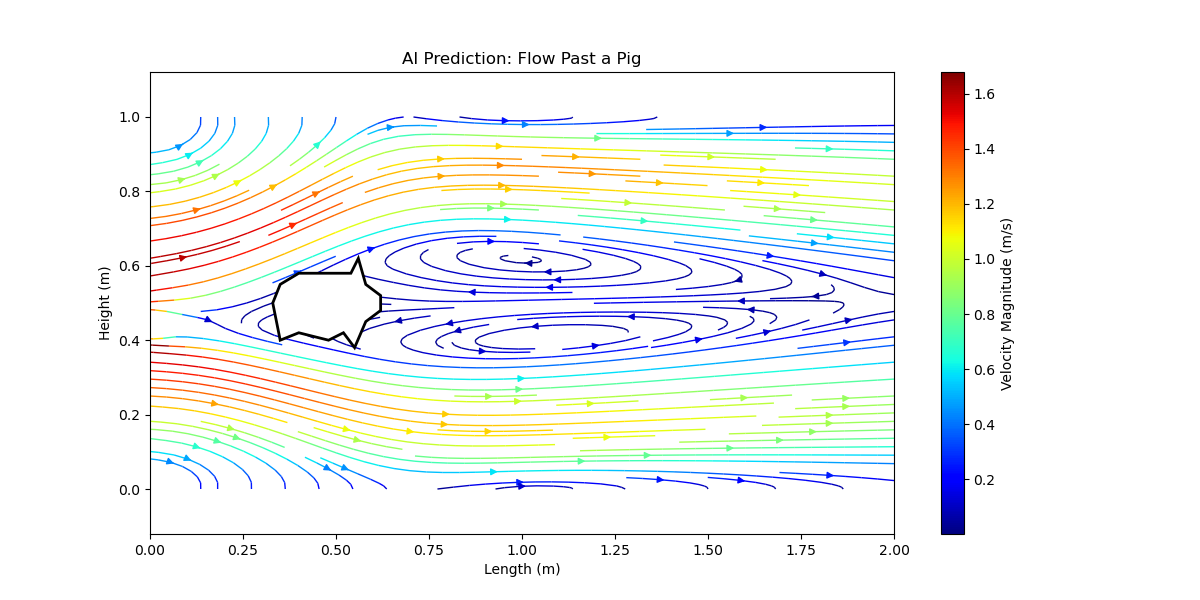
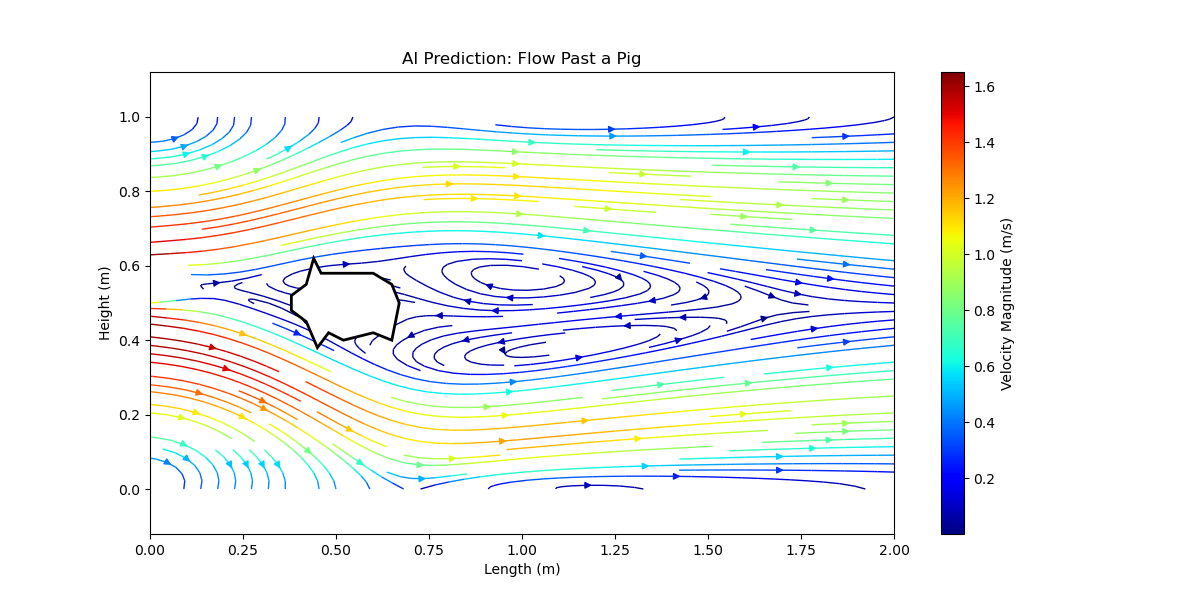
need more power

diff --git a/windtunnel.py b/windtunnel.py
@@ -16,9 +16,7 @@ SHAPE_TYPE = "pig"
 rng = np.random.default_rng(6767)
 
 # Physics Constants
-rho = 1.0 # density of air
-mu = rng.uniform(0.001, 0.01)
-u_inlet = rng.uniform(1.0, 2.0)
+rho, mu, u_inlet = 1.0, 0.002, 1.0  # <--- Lower viscosity
 
 # Domain Setup (2D Cross-Section of a Wind Tunnel)
 tunnel = dde.geometry.Rectangle([0, 0], [2, 1])
@@ -93,15 +91,19 @@ bc_outlet_p = dde.icbc.DirichletBC(geom, lambda x: 0, boundary_outlet, component
 bcs = [bc_inlet_u, bc_inlet_v, bc_walls_u, bc_walls_v, bc_shape_u, bc_shape_v, bc_outlet_p]
 
 # Train the PINN
-data = dde.data.PDE(geom, pde, bcs, num_domain=2000, num_boundary=400, num_test=1000)
-net = dde.nn.FNN([2] + [50] * 4 + [3], "tanh", "Glorot normal")
+# We need more points to capture the sharper turbulence
+data = dde.data.PDE(geom, pde, bcs, num_domain=5000, num_boundary=1000, num_test=1000)
+
+# We need a larger network for harder physics
+net = dde.nn.FNN([2] + [64] * 5 + [3], "tanh", "Glorot normal")  # Slightly deeper network
 model = dde.Model(data, net)
 
 print("Compiling model...")
 model.compile("adam", lr=1e-3)
 
 print("Training...")
-model.train(iterations=6767)
+# It takes longer to learn chaos
+model.train(iterations=12000)
 
 print("Generating Plot...")
 x = np.linspace(0, 2, 200)
